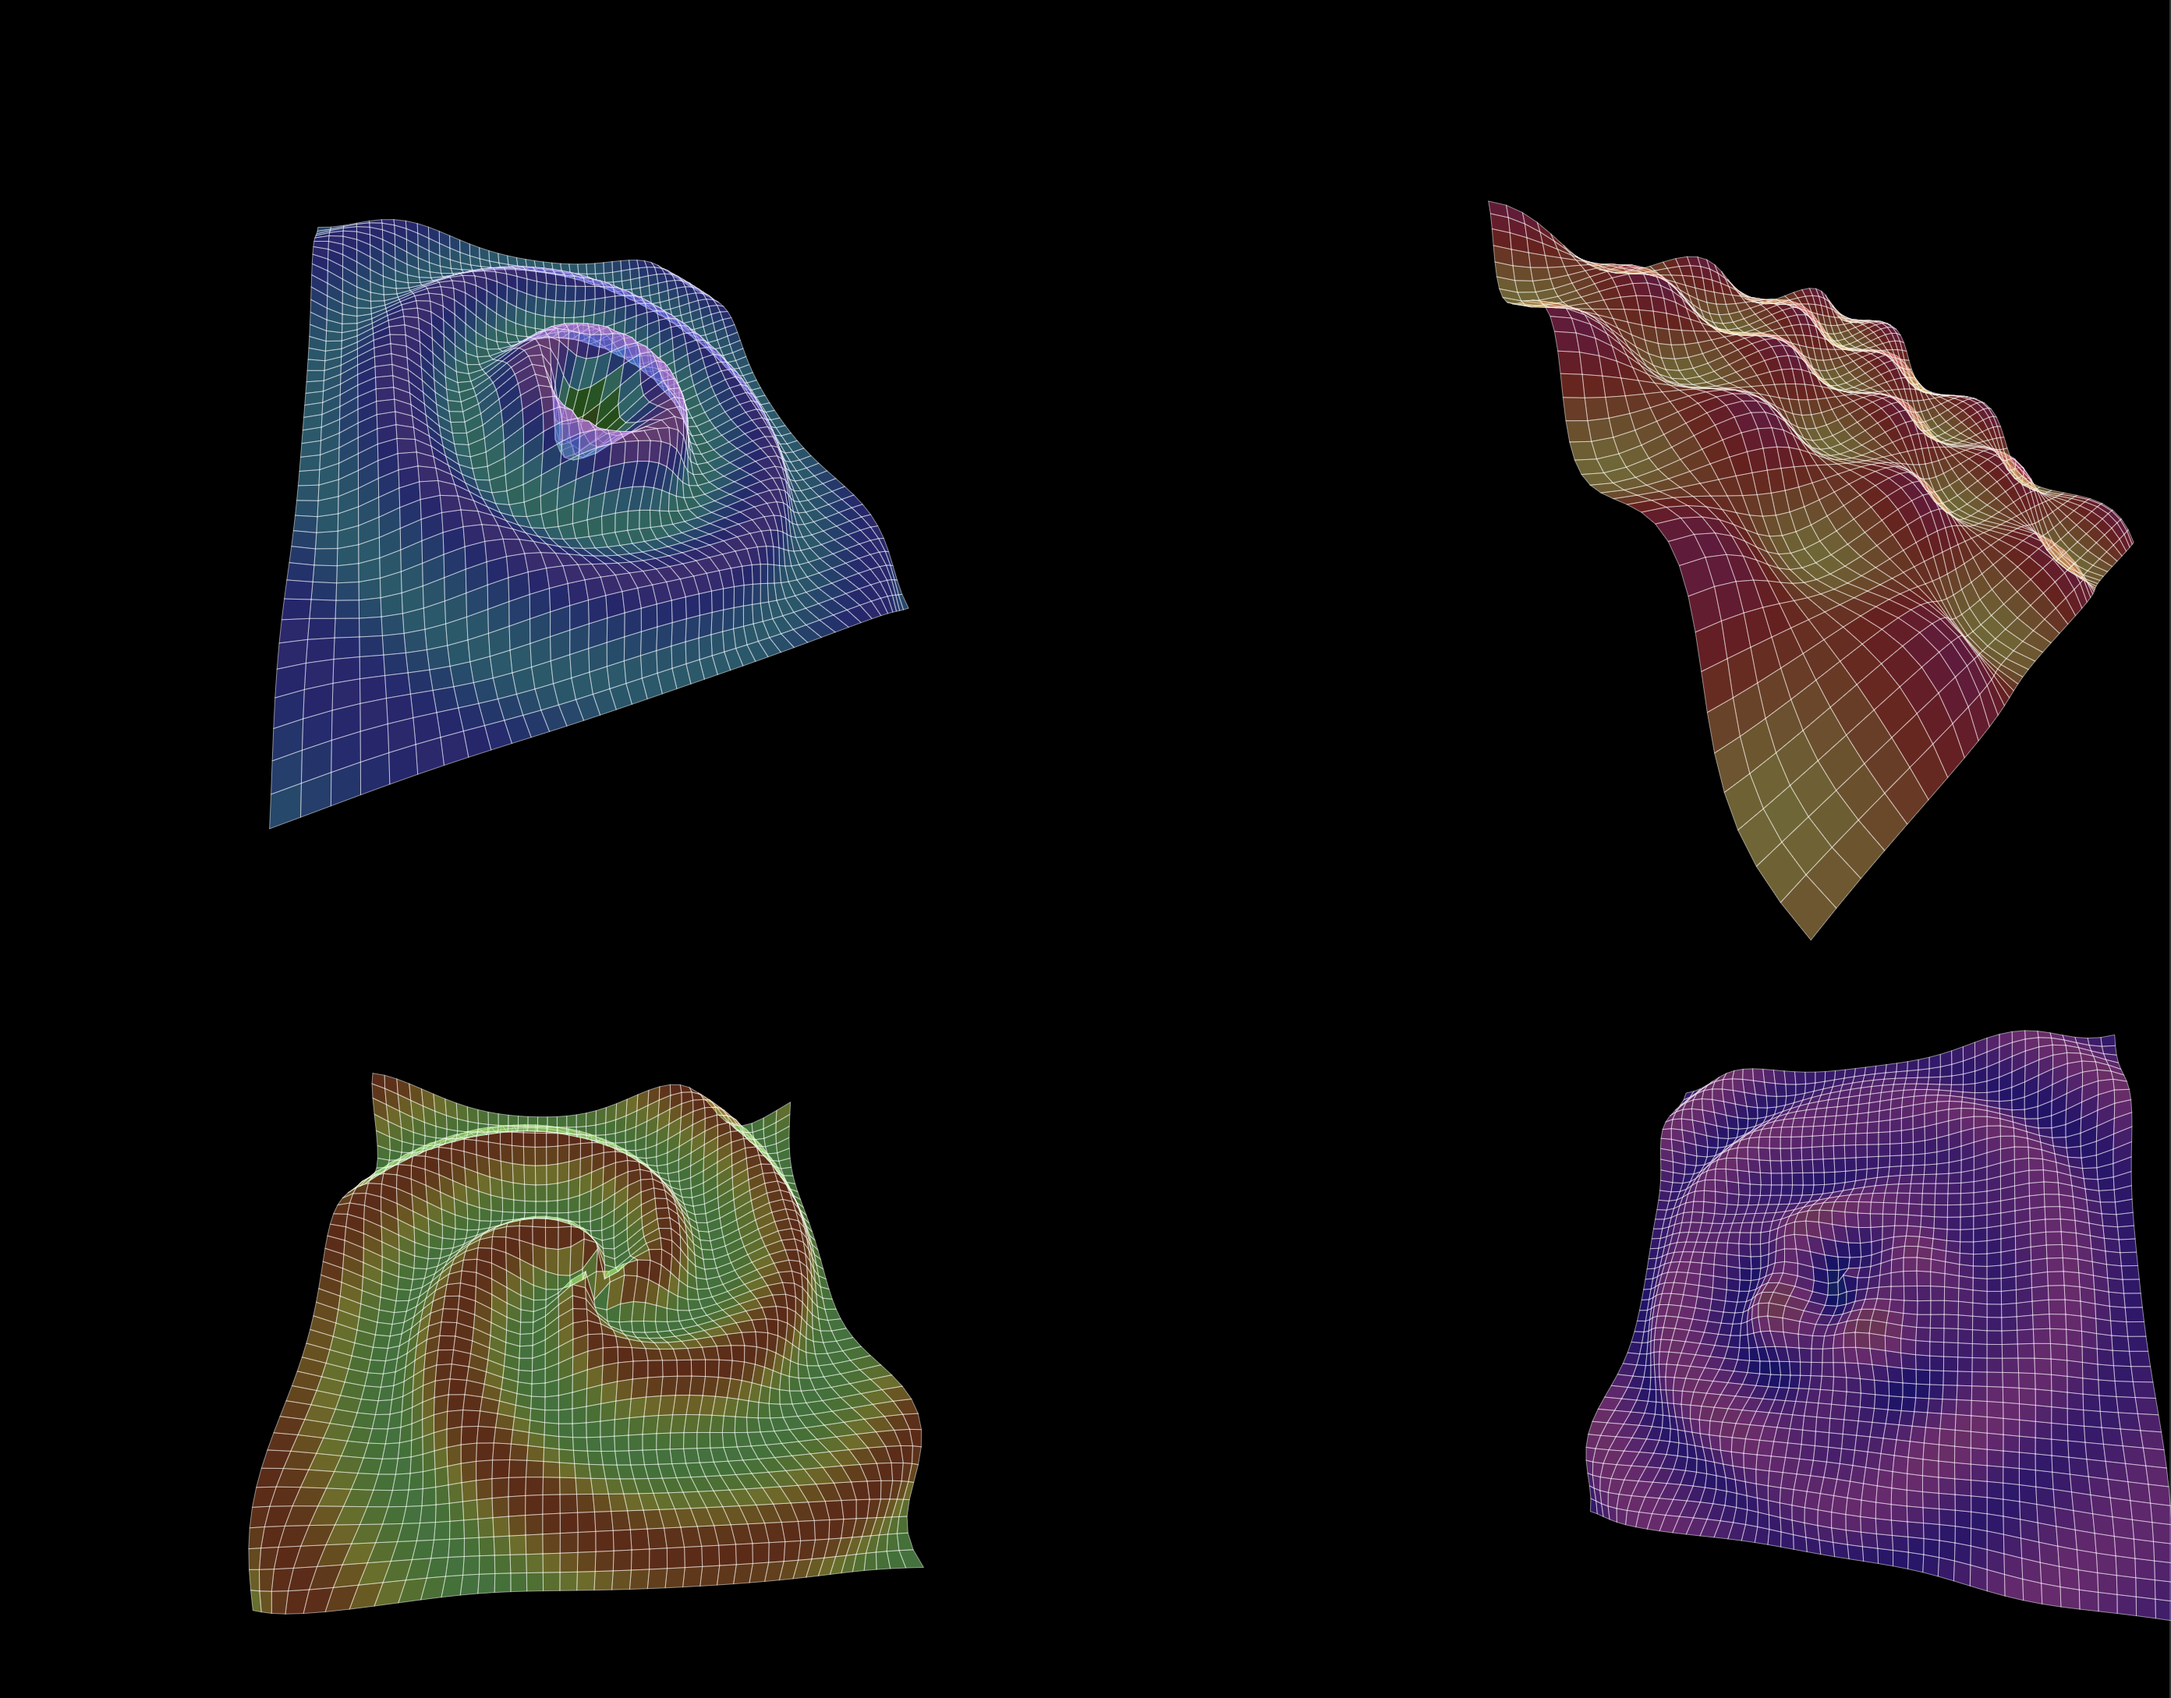
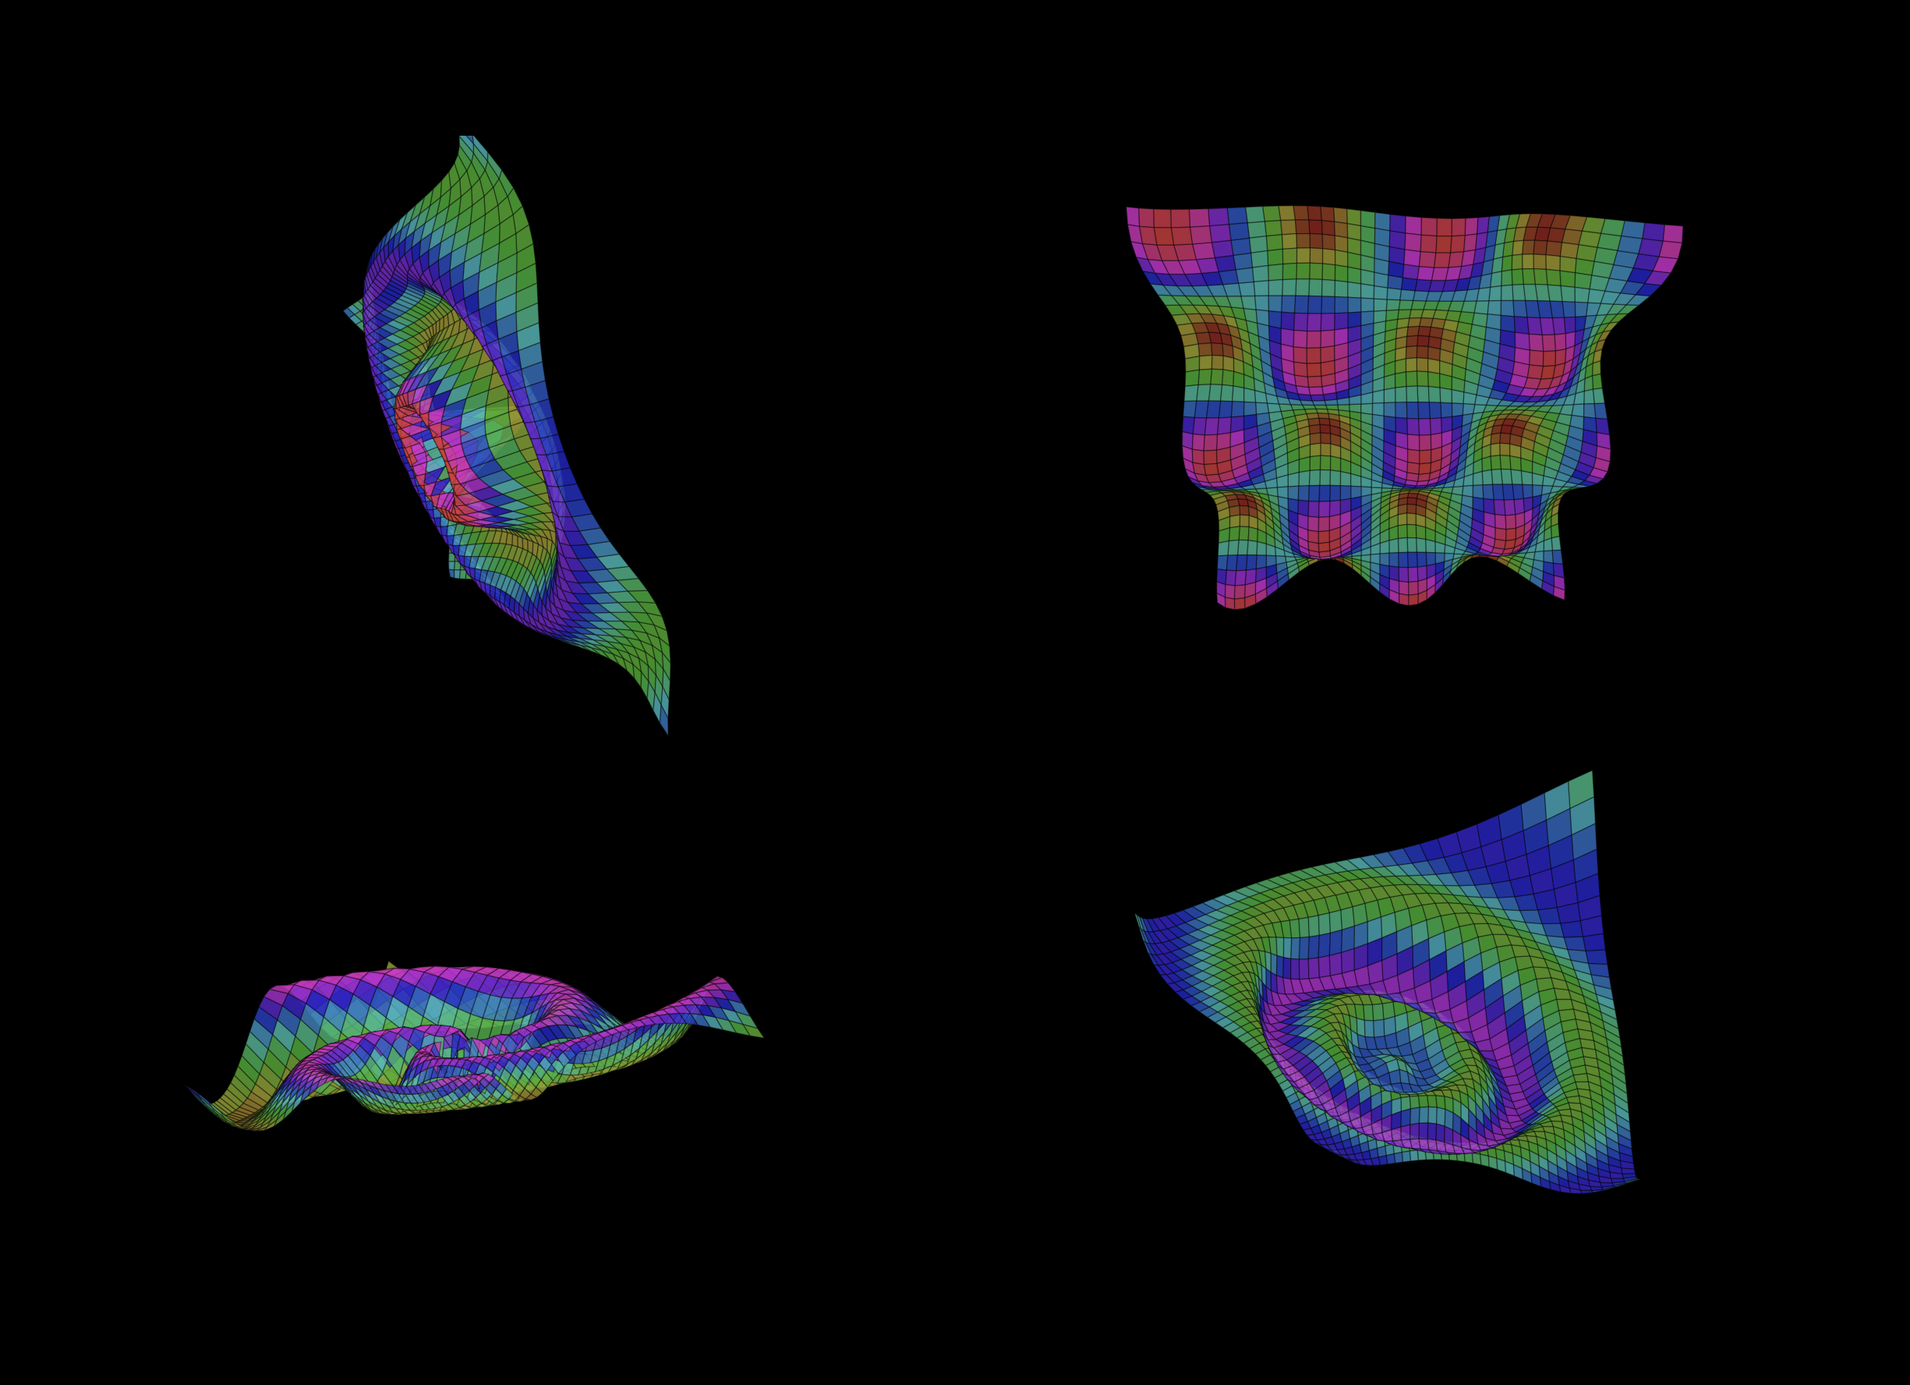
normalize wave spectrums, optimize layout

diff --git a/docs/index.html b/docs/index.html
@@ -5811,6 +5811,10 @@ var $avh4$elm_color$Color$hsl = F3(
 	function (h, s, l) {
 		return A4($avh4$elm_color$Color$hsla, h, s, l, 1.0);
 	});
+var $elm$core$Basics$min = F2(
+	function (x, y) {
+		return (_Utils_cmp(x, y) < 0) ? x : y;
+	});
 var $elm$core$String$concat = function (strings) {
 	return A2($elm$core$String$join, '', strings);
 };
@@ -5851,33 +5855,41 @@ var $elm$core$Basics$sin = _Basics_sin;
 var $elm$core$Basics$sqrt = _Basics_sqrt;
 var $author$project$Main$waveFunction = F3(
 	function (variant, coord, time) {
+		var targetRange = 25.0;
 		var r = $elm$core$Basics$sqrt(
 			A2($elm$core$Basics$pow, coord.d, 2) + A2($elm$core$Basics$pow, coord.e, 2));
-		switch (variant) {
-			case 1:
-				return (20 * $elm$core$Basics$sin((r / 12) - (time / 300))) * (100 / (r + 30));
-			case 2:
-				return (15 * $elm$core$Basics$sin((coord.d / 20) - (time / 250))) * $elm$core$Basics$sin((coord.e / 20) - (time / 200));
-			case 3:
-				var angle = A2($elm$core$Basics$atan2, coord.e, coord.d);
-				return 20 * $elm$core$Basics$sin(((r / 15) - (time / 200)) + (angle * 3));
-			default:
-				var secondaryRipples = (8 * $elm$core$Basics$sin((r / 12) - (time / 480))) * $elm$core$Basics$cos(time / 4000);
-				var primaryRipples = (200 / (r + 20)) * $elm$core$Basics$sin((r / 8) - (time / 320));
-				var offset2 = $elm$core$Basics$sqrt(
-					A2($elm$core$Basics$pow, coord.d + 40, 2) + A2($elm$core$Basics$pow, coord.e - 20, 2));
-				var offset1 = $elm$core$Basics$sqrt(
-					A2($elm$core$Basics$pow, coord.d - 50, 2) + A2($elm$core$Basics$pow, coord.e - 30, 2));
-				var interference2 = (4 * $elm$core$Basics$sin((offset2 / 8) - (time / 440))) * (60 / (offset2 + 30));
-				var interference1 = (6 * $elm$core$Basics$sin((offset1 / 10) - (time / 360))) * (80 / (offset1 + 40));
-				return ((primaryRipples + secondaryRipples) + interference1) + interference2;
-		}
+		var rawHeight = function () {
+			switch (variant) {
+				case 1:
+					return (0.75 * $elm$core$Basics$sin((r / 12) - (time / 500))) * (100 / (r + 30));
+				case 2:
+					return $elm$core$Basics$sin((coord.d / 20) - (time / 400)) * $elm$core$Basics$sin((coord.e / 20) - (time / 350));
+				case 3:
+					var angle = A2($elm$core$Basics$atan2, coord.e, coord.d);
+					return 0.75 * $elm$core$Basics$sin(((r / 15) - (time / 700)) + (angle * 3));
+				default:
+					var secondaryRipples = (0.5 * $elm$core$Basics$sin((r / 12) - (time / 800))) * $elm$core$Basics$cos(time / 6000);
+					var primaryRipples = (15 / (r + 20)) * $elm$core$Basics$sin((r / 8) - (time / 550));
+					var offset2 = $elm$core$Basics$sqrt(
+						A2($elm$core$Basics$pow, coord.d + 40, 2) + A2($elm$core$Basics$pow, coord.e - 20, 2));
+					var offset1 = $elm$core$Basics$sqrt(
+						A2($elm$core$Basics$pow, coord.d - 50, 2) + A2($elm$core$Basics$pow, coord.e - 30, 2));
+					var interference2 = (0.25 * $elm$core$Basics$sin((offset2 / 8) - (time / 700))) * (4 / (offset2 + 30));
+					var interference1 = (0.3 * $elm$core$Basics$sin((offset1 / 10) - (time / 600))) * (5 / (offset1 + 40));
+					return ((primaryRipples + secondaryRipples) + interference1) + interference2;
+			}
+		}();
+		return rawHeight * targetRange;
 	});
 var $author$project$Main$gridElement = F3(
 	function (variant, coord, time) {
 		var height = A3($author$project$Main$waveFunction, variant, coord, time);
-		var hueFromHeight = (height / 90) * 0.67;
-		var lightness = 0.3 + ((height + 50) / 200);
+		var lightness = 0.35 + ((height + 25) / 280);
+		var normalizedHeight = (height + 25) / 50;
+		var hue = A2(
+			$elm$core$Basics$max,
+			0,
+			A2($elm$core$Basics$min, 1, normalizedHeight));
 		var createPoint = function (c) {
 			return A3(
 				$author$project$Main$Point3D,
@@ -5888,16 +5900,13 @@ var $author$project$Main$gridElement = F3(
 		var points = _List_fromArray(
 			[
 				createPoint(
-				A2($author$project$Main$GridCoordinate, coord.d - 8, coord.e - 8)),
+				A2($author$project$Main$GridCoordinate, coord.d - 7, coord.e - 7)),
 				createPoint(
-				A2($author$project$Main$GridCoordinate, coord.d, coord.e - 8)),
+				A2($author$project$Main$GridCoordinate, coord.d, coord.e - 7)),
 				createPoint(coord),
 				createPoint(
-				A2($author$project$Main$GridCoordinate, coord.d - 8, coord.e))
+				A2($author$project$Main$GridCoordinate, coord.d - 7, coord.e))
 			]);
-		var colorOffset = (time / 5000) - $elm$core$Basics$floor(time / 5000);
-		var baseHue = hueFromHeight + colorOffset;
-		var hue = baseHue - $elm$core$Basics$floor(baseHue);
 		var color = $avh4$elm_color$Color$toCssString(
 			A3($avh4$elm_color$Color$hsl, hue, 0.7, lightness));
 		return A2($author$project$Main$Face, points, color);
@@ -5909,8 +5918,8 @@ var $author$project$Main$grid = F2(
 			A2(
 				$elm$core$Basics$composeR,
 				$elm$core$Basics$toFloat,
-				$elm$core$Basics$mul(8)),
-			A2($elm$core$List$range, -20, 20));
+				$elm$core$Basics$mul(7)),
+			A2($elm$core$List$range, -18, 18));
 		var coordinates = A2(
 			$elm$core$List$concatMap,
 			function (x) {
@@ -5998,11 +6007,11 @@ var $author$project$Main$svgProjection = F2(
 				$elm$svg$Svg$polygon,
 				_List_fromArray(
 					[
-						$elm$svg$Svg$Attributes$stroke('white'),
-						$elm$svg$Svg$Attributes$strokeWidth('0.5'),
-						$elm$svg$Svg$Attributes$strokeOpacity('0.5'),
+						$elm$svg$Svg$Attributes$stroke('#000000'),
+						$elm$svg$Svg$Attributes$strokeWidth('0.7'),
+						$elm$svg$Svg$Attributes$strokeOpacity('0.4'),
 						$elm$svg$Svg$Attributes$fill(face.ac),
-						$elm$svg$Svg$Attributes$fillOpacity('0.5'),
+						$elm$svg$Svg$Attributes$fillOpacity('0.8'),
 						$elm$svg$Svg$Attributes$points(pointsString)
 					]),
 				_List_Nil);
@@ -6021,10 +6030,9 @@ var $author$project$Main$view = function (model) {
 			A2($elm$html$Html$Attributes$style, 'backgroundColor', '#000000'),
 			A2($elm$html$Html$Attributes$style, 'height', '100vh'),
 			A2($elm$html$Html$Attributes$style, 'width', '100vw'),
-			A2($elm$html$Html$Attributes$style, 'display', 'grid'),
-			A2($elm$html$Html$Attributes$style, 'grid-template-columns', 'repeat(auto-fit, minmax(400px, 1fr))'),
-			A2($elm$html$Html$Attributes$style, 'grid-template-rows', 'repeat(auto-fit, minmax(350px, 1fr))'),
-			A2($elm$html$Html$Attributes$style, 'gap', '0'),
+			A2($elm$html$Html$Attributes$style, 'display', 'flex'),
+			A2($elm$html$Html$Attributes$style, 'justify-content', 'center'),
+			A2($elm$html$Html$Attributes$style, 'align-items', 'center'),
 			A2($elm$html$Html$Attributes$style, 'overflow', 'hidden')
 		]);
 	var responsiveCSS = A3(
@@ -6033,8 +6041,21 @@ var $author$project$Main$view = function (model) {
 		_List_Nil,
 		_List_fromArray(
 			[
-				$elm$html$Html$text('\n                @media (max-width: 768px) {\n                    .grid-container {\n                        grid-template-columns: 1fr !important;\n                        grid-template-rows: repeat(4, minmax(300px, 1fr)) !important;\n                    }\n                }\n                @media (min-width: 769px) and (max-width: 1024px) {\n                    .grid-container {\n                        grid-template-columns: 1fr 1fr !important;\n                        grid-template-rows: 1fr 1fr !important;\n                    }\n                }\n                @media (min-width: 1025px) {\n                    .grid-container {\n                        grid-template-columns: 1fr 1fr !important;\n                        grid-template-rows: 1fr 1fr !important;\n                    }\n                }\n                ')
+				$elm$html$Html$text('\n                @media (max-width: 768px) {\n                    .grid-layout {\n                        grid-template-columns: 1fr !important;\n                        grid-template-rows: 1fr 1fr 1fr 1fr !important;\n                        gap: 1px !important;\n                        padding: 1px !important;\n                        height: 100vh !important;\n                        max-width: 100vw !important;\n                        aspect-ratio: unset !important;\n                    }\n                }\n                @media (min-width: 769px) {\n                    .grid-layout {\n                        grid-template-columns: 1fr 1fr !important;\n                        grid-template-rows: 1fr 1fr !important;\n                        gap: 2px !important;\n                        padding: 2px !important;\n                    }\n                }\n                ')
 			]));
+	var gridStyles = _List_fromArray(
+		[
+			A2($elm$html$Html$Attributes$style, 'display', 'grid'),
+			A2($elm$html$Html$Attributes$style, 'grid-template-columns', '1fr 1fr'),
+			A2($elm$html$Html$Attributes$style, 'grid-template-rows', '1fr 1fr'),
+			A2($elm$html$Html$Attributes$style, 'gap', '2px'),
+			A2($elm$html$Html$Attributes$style, 'padding', '2px'),
+			A2($elm$html$Html$Attributes$style, 'box-sizing', 'border-box'),
+			A2($elm$html$Html$Attributes$style, 'max-width', '1200px'),
+			A2($elm$html$Html$Attributes$style, 'width', '100%'),
+			A2($elm$html$Html$Attributes$style, 'height', 'min(100vh, 800px)'),
+			A2($elm$html$Html$Attributes$style, 'aspect-ratio', '1.5')
+		]);
 	var gridContainerStyle = _List_fromArray(
 		[
 			A2($elm$html$Html$Attributes$style, 'width', '100%'),
@@ -6042,7 +6063,7 @@ var $author$project$Main$view = function (model) {
 			A2($elm$html$Html$Attributes$style, 'display', 'flex'),
 			A2($elm$html$Html$Attributes$style, 'justify-content', 'center'),
 			A2($elm$html$Html$Attributes$style, 'align-items', 'center'),
-			A2($elm$html$Html$Attributes$style, 'min-height', '350px')
+			A2($elm$html$Html$Attributes$style, 'overflow', 'hidden')
 		]);
 	var svgs = _List_fromArray(
 		[
@@ -6104,21 +6125,23 @@ var $author$project$Main$view = function (model) {
 		]);
 	return A2(
 		$elm$html$Html$div,
-		_List_Nil,
+		_Utils_ap(
+			_List_fromArray(
+				[
+					A2($elm$html$Html$Events$on, 'mousemove', $author$project$Main$mouseDecoder),
+					A2($elm$html$Html$Events$on, 'pointermove', $author$project$Main$mouseDecoder),
+					A2($elm$html$Html$Attributes$style, 'touch-action', 'none')
+				]),
+			styles),
 		_List_fromArray(
 			[
 				responsiveCSS,
 				A2(
 				$elm$html$Html$div,
-				_Utils_ap(
-					_List_fromArray(
-						[
-							A2($elm$html$Html$Events$on, 'mousemove', $author$project$Main$mouseDecoder),
-							A2($elm$html$Html$Events$on, 'pointermove', $author$project$Main$mouseDecoder),
-							A2($elm$html$Html$Attributes$style, 'touch-action', 'none'),
-							$elm$html$Html$Attributes$class('grid-container')
-						]),
-					styles),
+				A2(
+					$elm$core$List$cons,
+					$elm$html$Html$Attributes$class('grid-layout'),
+					gridStyles),
 				svgs)
 			]));
 };

diff --git a/README.md b/README.md
@@ -2,7 +2,7 @@
 
 A modernized Elm demo showcasing four distinct animated 3D grid visualizations with interactive rotation, diverse wave patterns, and vibrant color spectrums.
 
-[![3D Vector Animation Demo](demo-screenshot.png)](https://ninjaconcept.github.io/elm-vector-demo-1/)
+[![3D Vector Animation Demo](demo-screenshot.png?v=2)](https://ninjaconcept.github.io/elm-vector-demo-1/)
 
 **[🌐 Live Demo](https://ninjaconcept.github.io/elm-vector-demo-1/)**
 
